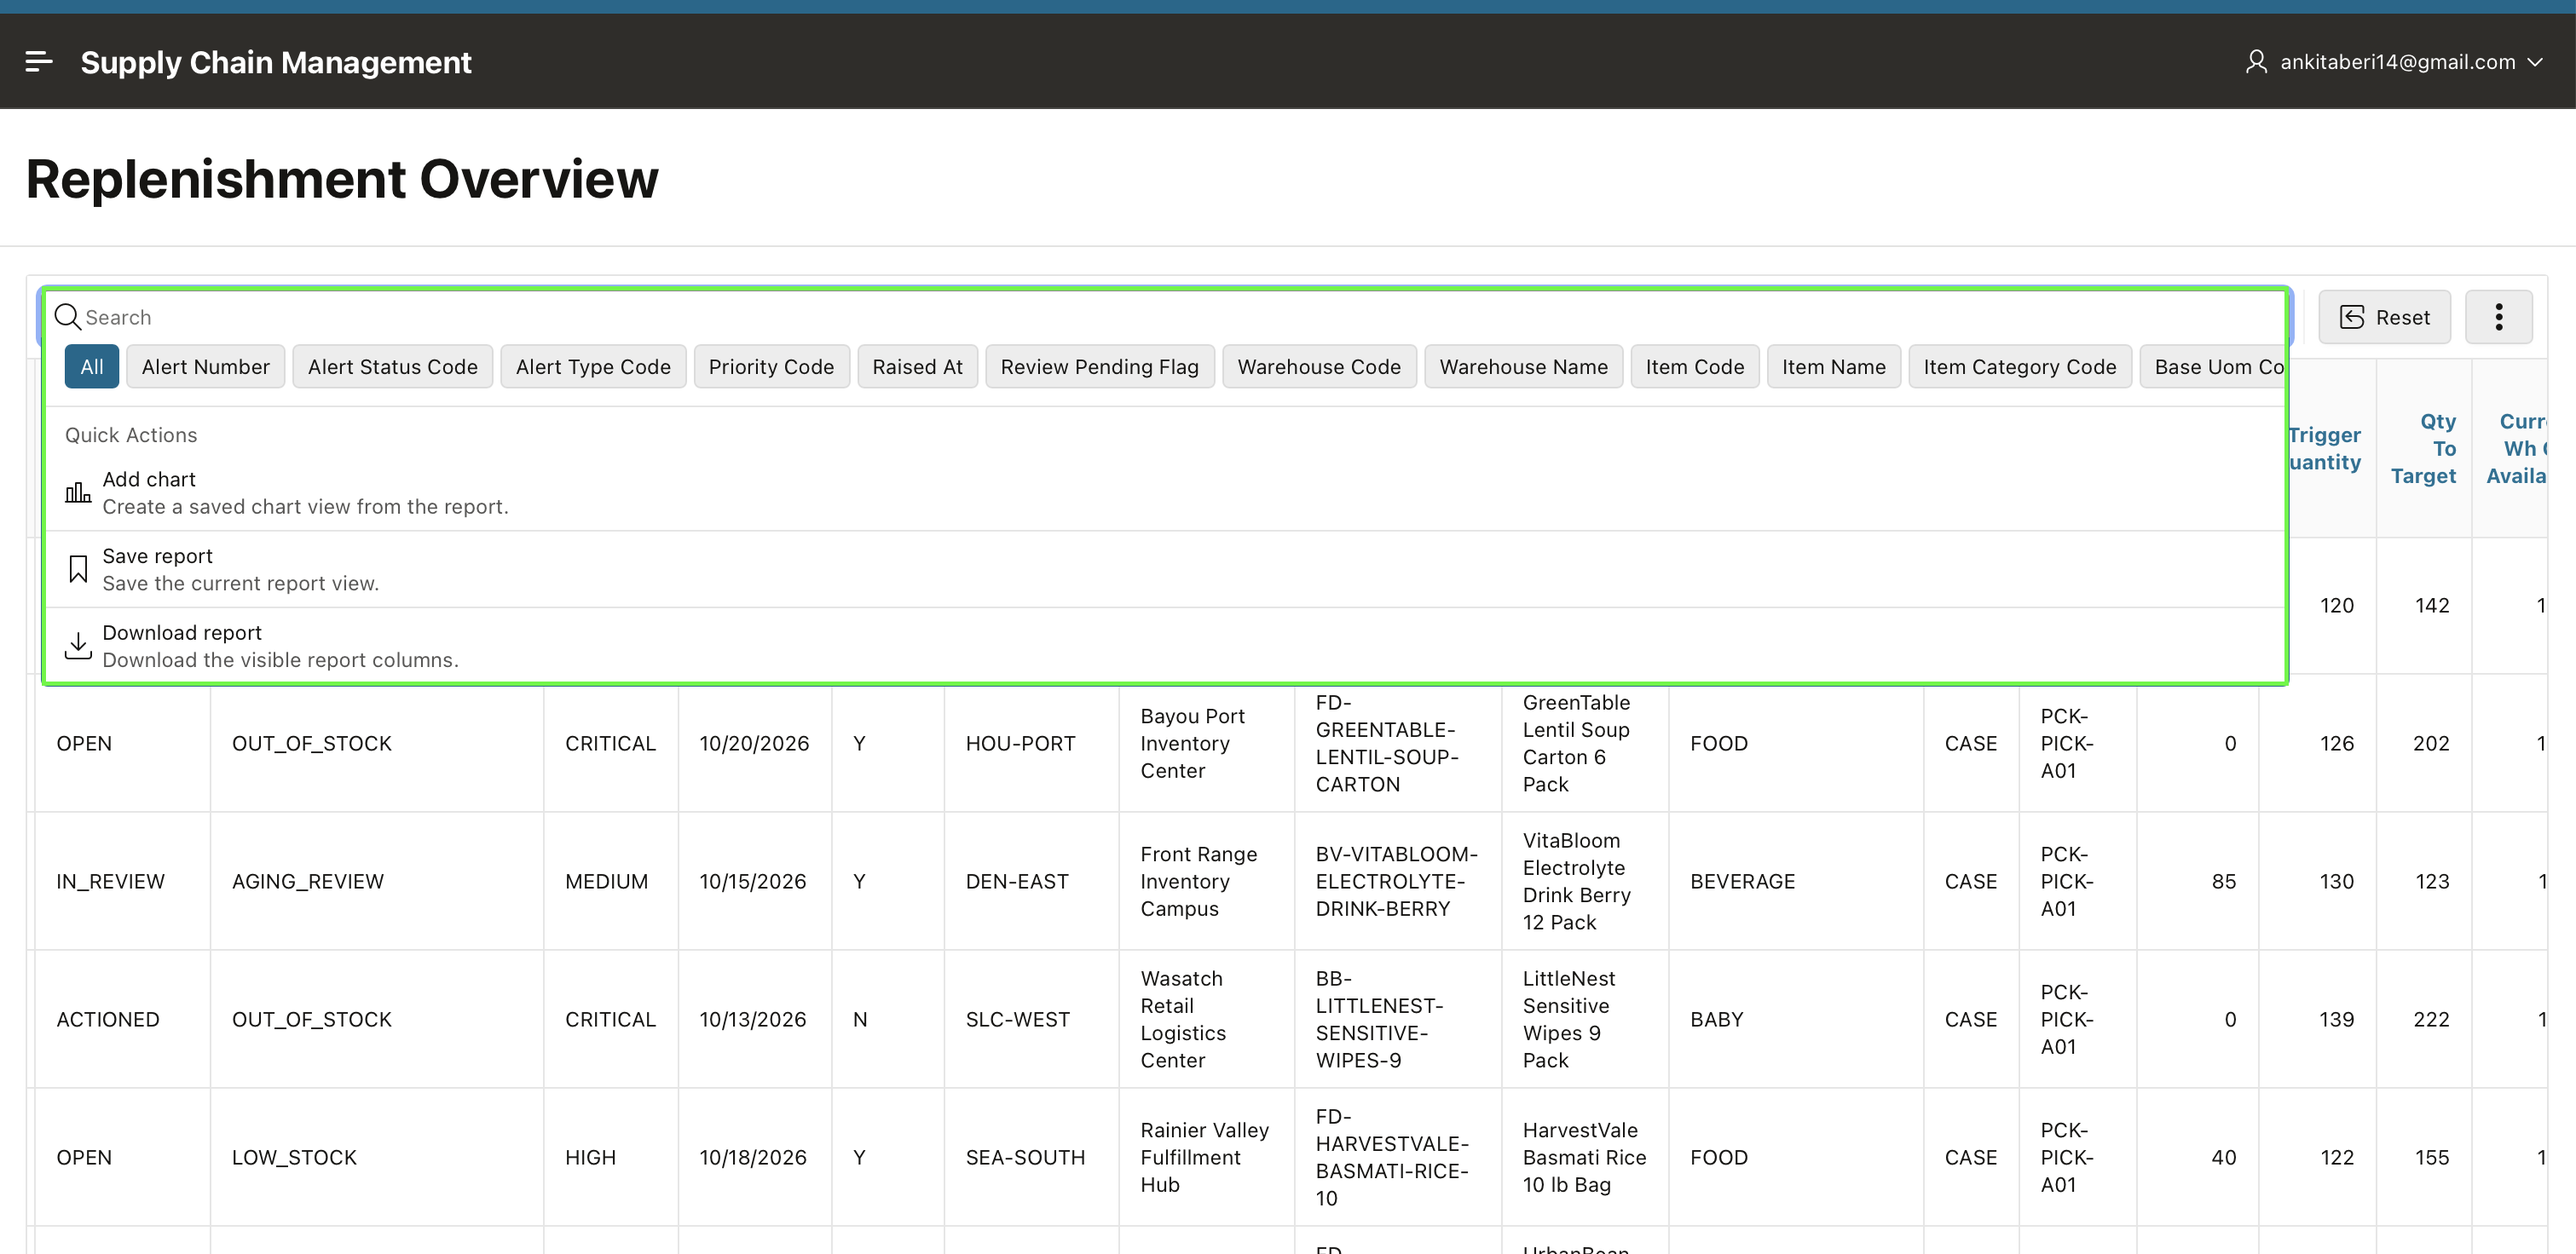
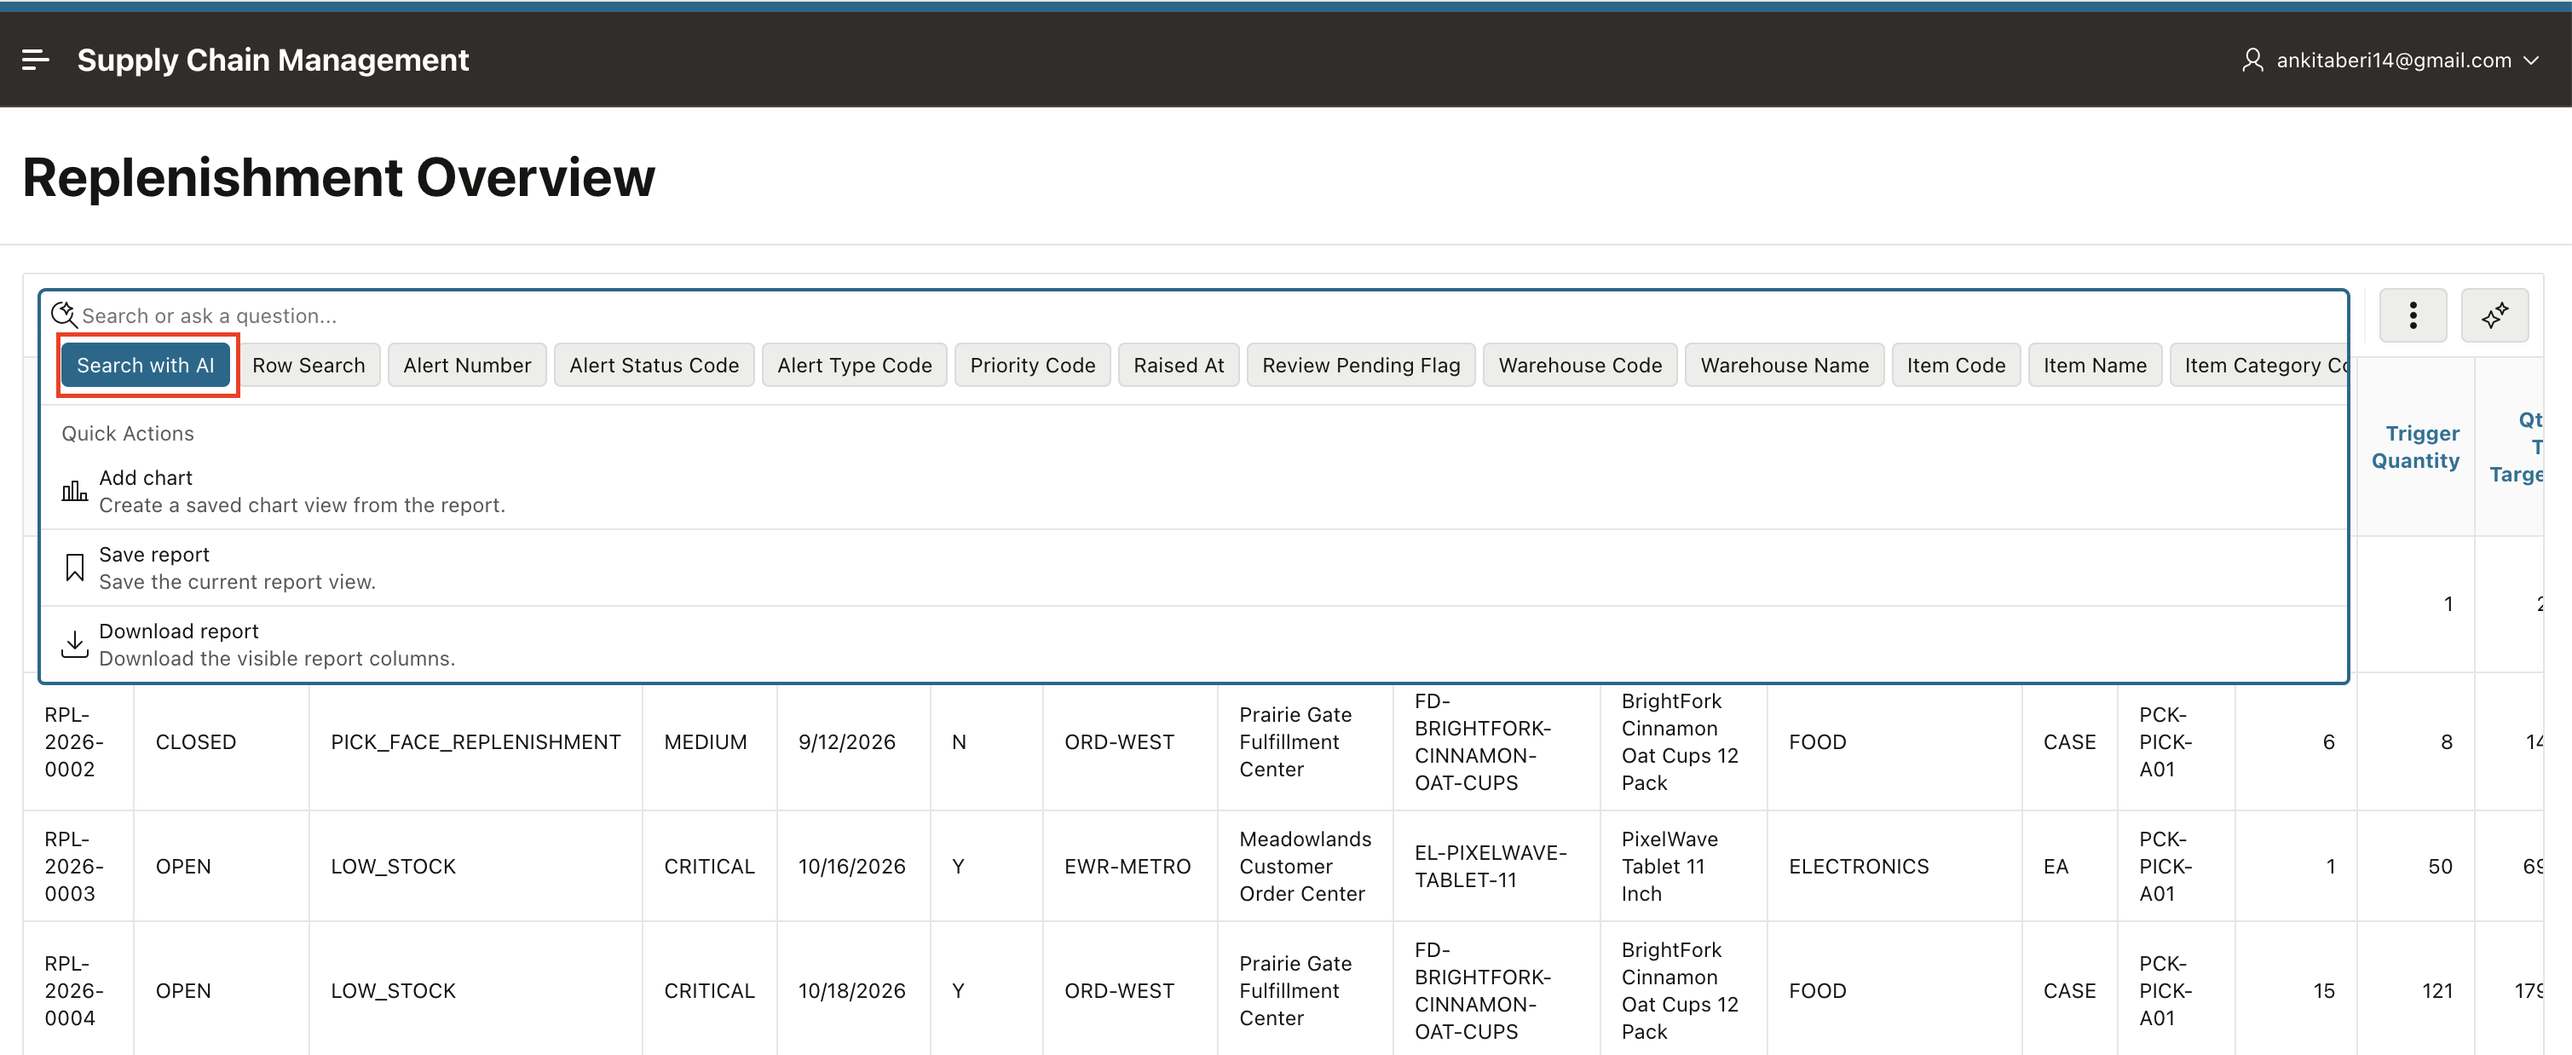
ai-intercative-report-262

diff --git a/ai-interactive-report-lab/lab-5-configure-column-level-ai-attributes/lab-5-configure-column-level-ai-attributes.md b/ai-interactive-report-lab/lab-5-configure-column-level-ai-attributes/lab-5-configure-column-level-ai-attributes.md
@@ -23,15 +23,19 @@ In this lab, you learn how to:
 
 To generate report settings from natural language, APEX provides the LLM with Interactive Report context - including the report definition, column metadata, available reference values, and the current report state. The AI uses this metadata to determine which settings to apply; it does not access your business data. In this task, you will enable natural language support for the report region, choose the default AI search behavior, and describe what the report represents.
 
-1. In **Page Designer**, select the **SCM Replenishment** region and open the **Attributes** tab.
+1. In **Page Designer**, select the **Replenishment Overview** region.
 
-2. In the **Generative AI** section, turn **Natural Language Support** **On**.
+2. In the Property Editor, navigate to the **Attributes** tab.
+
+3. In the **Generative AI** section, turn **Natural Language Support** **On**.
 
     ![Open the report region attributes](images/enable-natural-language-support.png)
 
-3. Confirm **Default Search Mode** is **Search with AI**.
+4. Confirm **Default Search Mode** is **Search with AI**.
 
-4. In **Report Context**, enter the following text:
+    ![Choose Search with AI as the default search mode](images/choose-default-search-mode.png)
+
+5. In **Report Context**, enter the following text:
 
     ```
     <copy>
@@ -41,9 +45,11 @@ To generate report settings from natural language, APEX provides the LLM with In
 
     ![Enter report context](images/enter-report-context.png)
 
-5. Select **Save and Run Page**.
+6. Select **Save and Run Page**.
 
-6. Confirm that the report opens with Search with AI and the conversational search controls.
+    ![Save and run the report page](images/save-and-run-report-page.png)
+
+7. Confirm that the report opens with Search with AI and the conversational search controls.
 
     ![Confirm Search with AI is available](images/confirm-search-with-ai.png)
 
@@ -51,23 +57,17 @@ To generate report settings from natural language, APEX provides the LLM with In
 
 Report-level context tells the AI what the report is about, but column context tells it what each field means. Use column context when users ask questions using business language rather than database column names. Without it, a column like `QTY_TO_TARGET` is just a number. With context, the AI understands it represents the suggested replenishment quantity. Similarly, `RAISED_AT` could be any timestamp, but column context clarifies it as the date when the alert was raised. In this task, you will add business descriptions to key columns so the AI can generate accurate filters, sorts, and aggregations from natural language prompts.
 
-1. In **App Builder**, open the Supply Chain Management application and open the replenishment report page in **Page Designer**.
-
-    ![Open the replenishment page in Page Designer](images/open-replenishment-page-in-page-designer.png)
-
-2. In the left pane, expand the report columns.
+1. Navigate back to the Page Designer. In the left pane, expand the report **Columns**.
 
     ![Expand the report columns](images/expand-report-columns.png)
 
-3. Select the column **QTY\_TO\_TARGET**.
+2. Select the column **QTY\_TO\_TARGET**.
 
     ![Select the QTY_TO_TARGET column](images/select-qty-to-target-column.png)
 
-4. In the right pane, scroll to the **Generative AI** section for the selected column. If the section is collapsed, expand it.
+3. In the Property Editor, scroll to the **Generative AI** section for the selected column. If the section is collapsed, expand it.
 
-    ![Open the Generative AI section](images/open-generative-ai-section-for-qty-to-target.png)
-
-5. In **Column Context**, enter the following context value:
+4. In **Column Context**, enter the following context value:
 
     ```
     <copy>
@@ -77,11 +77,11 @@ Report-level context tells the AI what the report is about, but column context t
 
     ![Enter the QTY_TO_TARGET column context](images/enter-qty-to-target-column-context.png)
 
-6. Select the column **PRIORITY_CODE**.
+5. Select the column **PRIORITY_CODE**.
 
     ![Select the PRIORITY_CODE column](images/select-priority-code-column.png)
 
-7. In the **Generative AI** section, enter the following **Column Context** value:
+6. In the **Generative AI** section, enter the following **Column Context** value:
 
     ```
     <copy>
@@ -91,11 +91,11 @@ Report-level context tells the AI what the report is about, but column context t
 
     ![Enter the PRIORITY_CODE column context](images/enter-priority-code-column-context.png)
 
-8. Select the column **RAISED_AT**.
+7. Select the column **RAISED_AT**.
 
     ![Select the RAISED_AT column](images/select-raised-at-column.png)
 
-9. In the **Generative AI** section, enter the following **Column Context** value:
+8. In the **Generative AI** section, enter the following **Column Context** value:
 
     ```
     <copy>
@@ -105,7 +105,7 @@ Report-level context tells the AI what the report is about, but column context t
 
     ![Enter the RAISED_AT column context](images/enter-raised-at-column-context.png)
 
-10. Select the column **ALERT\_TYPE\_CODE**. In the **Generative AI** section, enter the following **Column Context** value:
+9. Select the column **ALERT\_TYPE\_CODE**. In the **Generative AI** section, enter the following **Column Context** value:
 
     ```
     <copy>
@@ -115,7 +115,7 @@ Report-level context tells the AI what the report is about, but column context t
 
     ![Enter the ALERT_TYPE_CODE column context](images/alter-context.png)
 
-11. Select **Save**.
+10. Select **Save**.
 
     ![Save the column context updates](images/save-column-context-updates.png)
 
@@ -189,7 +189,9 @@ Column context describes what a field means, but reference data tells the AI wha
 
     ![Save and run the page with the column AI settings](images/save-and-run-page-with-column-ai-settings.png)
 
-11. The replenishment report opens again with the saved column-level AI settings. Return to **Lab 4 Task 2** to try its key phrases, then continue to the Search with AI lab.
+11. The replenishment report opens again with the saved column-level AI settings.
+
+    ![Run the report with the saved column AI settings](images/run-replenishment-report-after-saving-column-ai-settings.png)
 
 ## Summary
 

diff --git a/ai-interactive-report-lab/lab-6-use-search-with-ai/lab-6-use-search-with-ai.md b/ai-interactive-report-lab/lab-6-use-search-with-ai/lab-6-use-search-with-ai.md
@@ -32,15 +32,11 @@ With all the AI configuration in place, you can now see the feature in action. W
 
     ![Enter the open alerts prompt](images/enter-open-alerts-prompt.png " ")
 
-3. Confirm that the report applies a filter chip for open or in-review alerts, narrowing the list to unresolved items.
+3. Confirm that the report applies an `ALERT_STATUS_CODE = OPEN` filter chip, narrowing the list to open items.
 
     ![Confirm the open alert chip](images/confirm-open-alert-chip.png " ")
 
-4. Remove the chip by selecting **X**.
-
-    ![Remove the open alert chip](images/remove-open-alert-chip.png " ")
-
-5. In the search bar, enter the following and press **Enter**.
+4. Keep the open-alert filter active. In the search bar, enter the following and press **Enter** to sort the open alerts by stock gap.
 
     ```
     <copy>
@@ -48,17 +44,25 @@ With all the AI configuration in place, you can now see the feature in action. W
     </copy>
     ```
 
-    ![Enter the sort prompt](images/enter-sort-prompt.png " ")
+    ![Enter the sort prompt while the open-alert filter is active](images/enter-sort-prompt.png " ")
 
-6. Confirm that the report applies a descending sort on `QTY_TO_TARGET`.
+5. Confirm that the report applies a descending sort on `QTY_TO_TARGET`.
 
     ![Confirm the quantity sort](images/confirm-qty-sort.png " ")
+
+6. Select **Reset** to clear the AI filter and sort settings.
+
+    ![Select Reset on the report](images/reset-report.png " ")
+
+7. In the confirmation dialog, select **Apply** to restore the default report settings.
+
+    ![Confirm resetting the report](images/confirm-reset.png " ")
 
 ## Task 2: Compare AI Search with Row Search
 
 The search bar supports two modes: Row Search and Search with AI. Short keyword inputs (fewer than three words) trigger an immediate Row Search, while longer natural language prompts are routed to the AI for interpretation. This design preserves the existing Interactive Report search behavior while enabling natural language input in the same control. In this task, you will compare both modes and observe how the report determines which one to apply.
 
-1. Remove the filter chip. In the search bar, enter `PixelWave` and press **Enter**.
+1. In the search bar, enter `PixelWave` and press **Enter**. The report uses Row Search and adds a row-search chip.
 
     ![Enter the row search](images/enter-warehouse-row-search.png " ")
 
@@ -66,7 +70,7 @@ The search bar supports two modes: Row Search and Search with AI. Short keyword 
 
     ![Confirm the row search behavior](images/confirm-row-search-behavior.png " ")
 
-3. Now, remove the filter chip, enter the following AI-style prompt, and press **Enter**.
+3. Replace the row-search query with the following AI-style prompt and press **Enter**.
 
     ```
     <copy>
@@ -76,11 +80,7 @@ The search bar supports two modes: Row Search and Search with AI. Short keyword 
 
     ![Enter the AI prompt](images/enter-warehouse-ai-prompt.png " ")
 
-4. Confirm that the gradient AI processing indicator appears while the request is being interpreted.
-
-    ![Show the AI processing indicator](images/show-grad.png " ")
-
-5. Review the applied filter chips created by AI. The assistant should apply filters for critical priority, out-of-stock alert type, and open status.
+4. Review the applied filter chips created by AI. The assistant should apply filters for critical priority, out-of-stock alert type, and open status.
 
     ![Review the AI chips](images/review-ai-chips.png " ")
 
@@ -93,4 +93,4 @@ You may now **proceed to the next lab**.
 ## Acknowledgements
 
 - **Author** - Ankita Beri, Senior Product Manager
-- **Last Updated By/Date** - Ankita Beri, Senior Product Manager, June 2026
+- **Last Updated By/Date** - Ankita Beri, Senior Product Manager, October 2026
